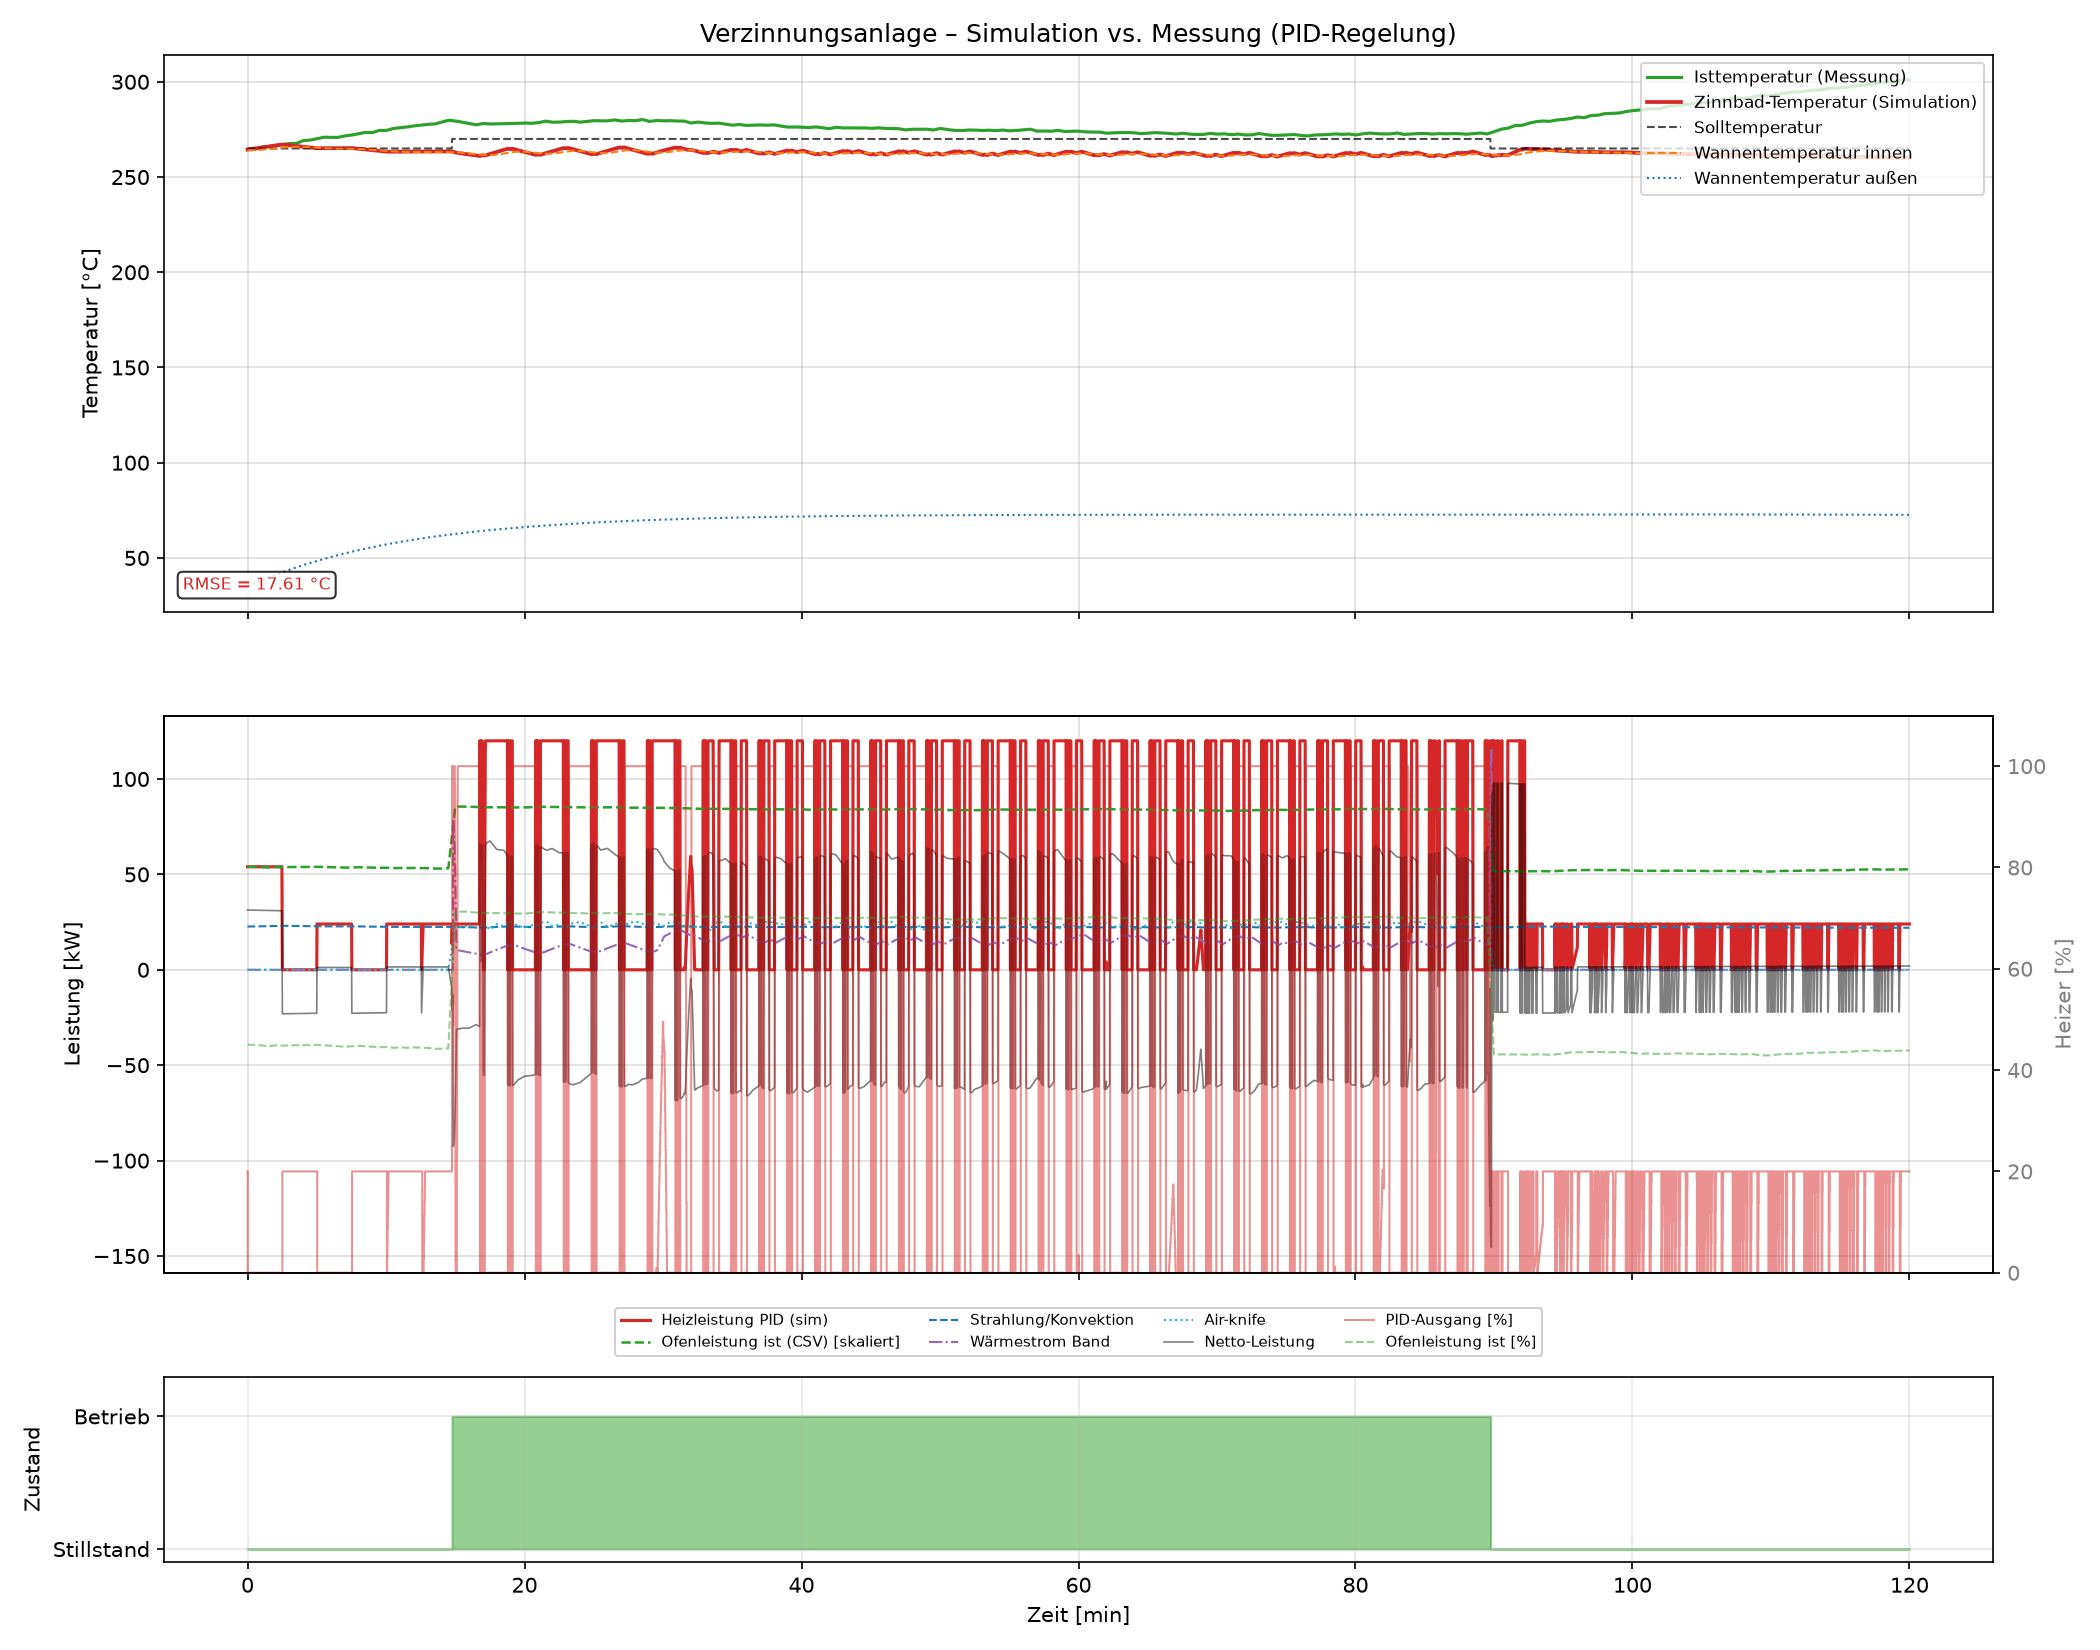
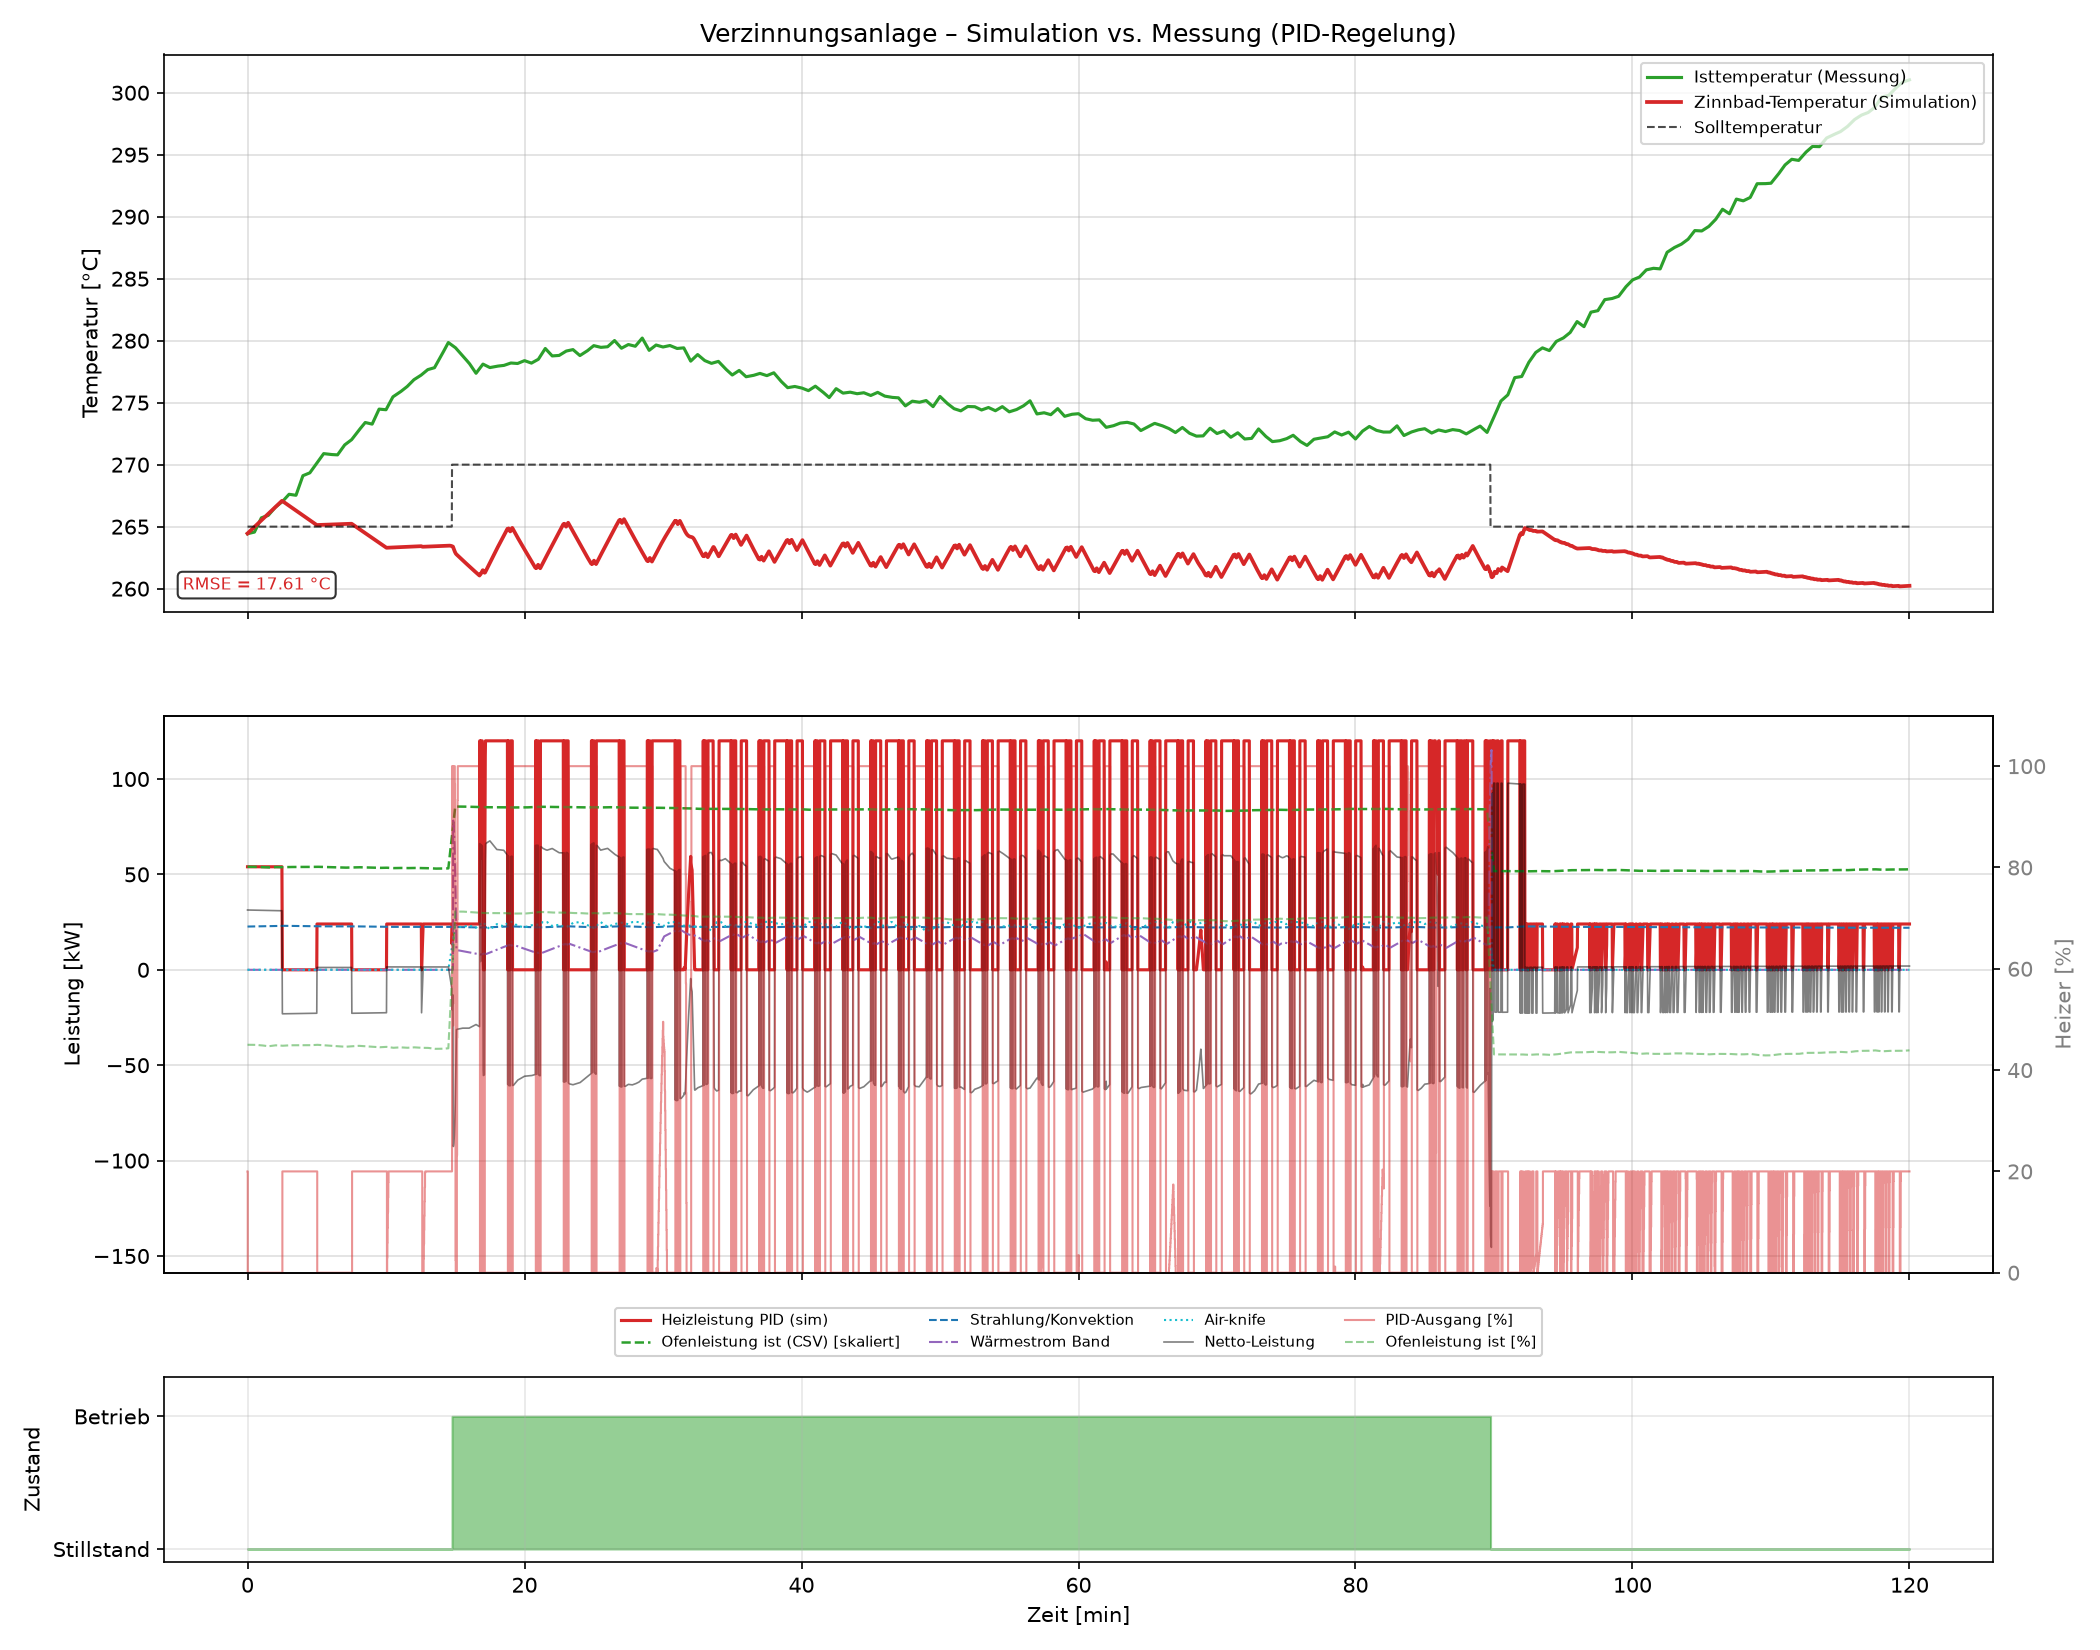
Remove Wannentemperatur innen/außen from simulation and plots
- Drop _step_wanne() helper function
- Remove T_innen/T_aussen state variables and arrays from both
  run_simulation() and run_simulation_with_data()
- Remove T_wanne_innen / T_wanne_aussen from both return dicts
- Remove both curves from plot_results() and plot_results_comparison()

diff --git a/simulation.py b/simulation.py
@@ -172,18 +172,6 @@ class PIDController:
 
 
 # ---------------------------------------------------------------------------
-# Shared vessel-wall temperature integration (2-node RC model)
-# ---------------------------------------------------------------------------
-def _step_wanne(T_bath, T_innen, T_aussen, dt):
-    Q1 = p.G_tin_inner * (T_bath   - T_innen)
-    Q2 = p.G_wall      * (T_innen  - T_aussen)
-    Q3 = p.G_outer     * (T_aussen - p.T_ambient)
-    T_innen  += (Q1 - Q2) / p.C_wanne_innen  * dt
-    T_aussen += (Q2 - Q3) / p.C_wanne_aussen * dt
-    return T_innen, T_aussen
-
-
-# ---------------------------------------------------------------------------
 # MODE 1 – Manual / open-loop  (heating_schedule array, no CSV)
 # ---------------------------------------------------------------------------
 def run_simulation(
@@ -222,17 +210,15 @@ def run_simulation(
         sched = (p.heating_schedule if len(p.heating_schedule) == n_steps
                  else p.generate_heating_schedule(n_steps))
 
-    t_arr        = np.linspace(t0, t0 + (n_steps - 1) * step, n_steps)
-    T_arr        = np.zeros(n_steps)
-    T_innen_arr  = np.zeros(n_steps)
-    T_aussen_arr = np.zeros(n_steps)
-    frac_arr     = np.zeros(n_steps)
-    P_heat_arr   = np.zeros(n_steps)
-    P_loss_arr   = np.zeros(n_steps)
-    P_band_arr   = np.zeros(n_steps)
-    P_ak_arr     = np.zeros(n_steps)
-    P_water_arr  = np.zeros(n_steps)
-    P_net_arr    = np.zeros(n_steps)
+    t_arr       = np.linspace(t0, t0 + (n_steps - 1) * step, n_steps)
+    T_arr       = np.zeros(n_steps)
+    frac_arr    = np.zeros(n_steps)
+    P_heat_arr  = np.zeros(n_steps)
+    P_loss_arr  = np.zeros(n_steps)
+    P_band_arr  = np.zeros(n_steps)
+    P_ak_arr    = np.zeros(n_steps)
+    P_water_arr = np.zeros(n_steps)
+    P_net_arr   = np.zeros(n_steps)
 
     ak_state = airknife_percent(dk1, dk2)
     P_ak     = lookup1d(p.airknife_state_bp, p.airknife_power_tbl, ak_state)
@@ -241,7 +227,7 @@ def run_simulation(
     delay_band  = TransportDelay(p.delay_band,       step, 0.0)
     delay_water = TransportDelay(p.delay_water_cool, step, P_w)
 
-    T = T0; T_in_w = p.T_wanne_innen_init; T_out_w = p.T_wanne_aussen_init
+    T = T0
 
     for i in range(n_steps):
         P_demand = sched[i] * p.P_heating_max
@@ -252,17 +238,14 @@ def run_simulation(
         P_wc     = delay_water.step(P_w)
         P_net    = P_h - P_loss - P_band - P_ak - P_wc
 
-        T       += (P_net / p.C_B) * step
-        T_in_w, T_out_w = _step_wanne(T, T_in_w, T_out_w, step)
+        T += (P_net / p.C_B) * step
 
-        T_arr[i]        = T;       T_innen_arr[i]  = T_in_w
-        T_aussen_arr[i] = T_out_w; frac_arr[i]     = sched[i]
-        P_heat_arr[i]   = P_h;    P_loss_arr[i]   = P_loss
-        P_band_arr[i]   = P_band; P_ak_arr[i]     = P_ak
-        P_water_arr[i]  = P_wc;   P_net_arr[i]    = P_net
+        T_arr[i]      = T;       frac_arr[i]    = sched[i]
+        P_heat_arr[i] = P_h;    P_loss_arr[i]  = P_loss
+        P_band_arr[i] = P_band; P_ak_arr[i]    = P_ak
+        P_water_arr[i]= P_wc;   P_net_arr[i]   = P_net
 
-    return dict(t=t_arr, T_bath=T_arr, T_wanne_innen=T_innen_arr,
-                T_wanne_aussen=T_aussen_arr, heating_frac=frac_arr,
+    return dict(t=t_arr, T_bath=T_arr, heating_frac=frac_arr,
                 P_heating=P_heat_arr, P_losses=P_loss_arr, P_band=P_band_arr,
                 P_airknife=P_ak_arr, P_water=P_water_arr, P_net=P_net_arr)
 
@@ -302,21 +285,17 @@ def run_simulation_with_data(
     T0 = T_bath_init if T_bath_init is not None else float(data['actual_temp'][0])
 
     # --- Allocate result arrays ---------------------------------------------
-    T_arr         = np.zeros(n_steps)
-    T_innen_arr   = np.zeros(n_steps)
-    T_aussen_arr  = np.zeros(n_steps)
-    frac_arr      = np.zeros(n_steps)   # heater demand fraction (PID or CSV)
-    P_heat_arr    = np.zeros(n_steps)
-    P_loss_arr    = np.zeros(n_steps)
-    P_band_arr    = np.zeros(n_steps)
-    P_ak_arr      = np.zeros(n_steps)
-    P_water_arr   = np.zeros(n_steps)
-    P_net_arr     = np.zeros(n_steps)
+    T_arr       = np.zeros(n_steps)
+    frac_arr    = np.zeros(n_steps)
+    P_heat_arr  = np.zeros(n_steps)
+    P_loss_arr  = np.zeros(n_steps)
+    P_band_arr  = np.zeros(n_steps)
+    P_ak_arr    = np.zeros(n_steps)
+    P_water_arr = np.zeros(n_steps)
+    P_net_arr   = np.zeros(n_steps)
 
     # --- Initialise state ---------------------------------------------------
-    T       = T0
-    T_in_w  = p.T_wanne_innen_init
-    T_out_w = p.T_wanne_aussen_init
+    T = T0
 
     init_frac  = data['oven_power_pct'][0] / 100.0
     init_P     = init_frac * p.P_heating_max
@@ -385,24 +364,18 @@ def run_simulation_with_data(
         P_net = P_h - P_loss - P_band - P_ak - P_w
         T    += (P_net / p.C_B) * dt
 
-        # Vessel wall temperatures (decoupled RC model)
-        T_in_w, T_out_w = _step_wanne(T, T_in_w, T_out_w, dt)
-
         prev_running = running
 
         # Store
-        T_arr[i]        = T;       T_innen_arr[i]  = T_in_w
-        T_aussen_arr[i] = T_out_w; frac_arr[i]     = frac
-        P_heat_arr[i]   = P_h;    P_loss_arr[i]   = P_loss
-        P_band_arr[i]   = P_band; P_ak_arr[i]     = P_ak
-        P_water_arr[i]  = P_w;    P_net_arr[i]    = P_net
+        T_arr[i]      = T;       frac_arr[i]    = frac
+        P_heat_arr[i] = P_h;    P_loss_arr[i]  = P_loss
+        P_band_arr[i] = P_band; P_ak_arr[i]    = P_ak
+        P_water_arr[i]= P_w;    P_net_arr[i]   = P_net
 
     return dict(
-        t              = t_grid,
-        T_bath         = T_arr,
-        T_wanne_innen  = T_innen_arr,
-        T_wanne_aussen = T_aussen_arr,
-        heating_frac   = frac_arr,
+        t            = t_grid,
+        T_bath       = T_arr,
+        heating_frac = frac_arr,
         P_heating      = P_heat_arr,
         P_losses       = P_loss_arr,
         P_band         = P_band_arr,
@@ -431,12 +404,8 @@ def plot_results(results: dict, save_path: str = 'simulation_results.png'):
     fig, axes = plt.subplots(2, 1, figsize=(13, 8), sharex=True)
 
     ax1 = axes[0]
-    ax1.plot(t_min, results['T_bath'],         color='tab:red',    lw=1.8,
+    ax1.plot(t_min, results['T_bath'], color='tab:red', lw=1.8,
              label='Zinnbad-Temperatur')
-    ax1.plot(t_min, results['T_wanne_innen'],  color='tab:orange', lw=1.2,
-             ls='--', label='Wannentemperatur innen')
-    ax1.plot(t_min, results['T_wanne_aussen'], color='tab:blue',   lw=1.2,
-             ls=':', label='Wannentemperatur außen')
     ax1.set_ylabel('Temperatur [°C]')
     ax1.set_title('Verzinnungsanlage – Thermische Simulation (open-loop)')
     ax1.legend(loc='upper right')
@@ -496,16 +465,12 @@ def plot_results_comparison(results: dict,
 
     # --- Panel 1: Temperatures ----------------------------------------------
     ax1 = axes[0]
-    ax1.plot(t_min, results['actual_temp'],     color='tab:green', lw=1.5,
+    ax1.plot(t_min, results['actual_temp'],   color='tab:green', lw=1.5,
              ls='-',  label='Isttemperatur (Messung)')
-    ax1.plot(t_min, results['T_bath'],          color='tab:red',   lw=1.8,
+    ax1.plot(t_min, results['T_bath'],       color='tab:red',   lw=1.8,
              ls='-',  label='Zinnbad-Temperatur (Simulation)')
-    ax1.plot(t_min, results['setpoint_temp'],   color='black',     lw=1.0,
+    ax1.plot(t_min, results['setpoint_temp'],color='black',     lw=1.0,
              ls='--', alpha=0.7, label='Solltemperatur')
-    ax1.plot(t_min, results['T_wanne_innen'],   color='tab:orange',lw=1.0,
-             ls='--', label='Wannentemperatur innen')
-    ax1.plot(t_min, results['T_wanne_aussen'],  color='tab:blue',  lw=1.0,
-             ls=':',  label='Wannentemperatur außen')
     ax1.set_ylabel('Temperatur [°C]')
     ax1.set_title('Verzinnungsanlage – Simulation vs. Messung (PID-Regelung)')
     ax1.legend(loc='upper right', fontsize=8)
